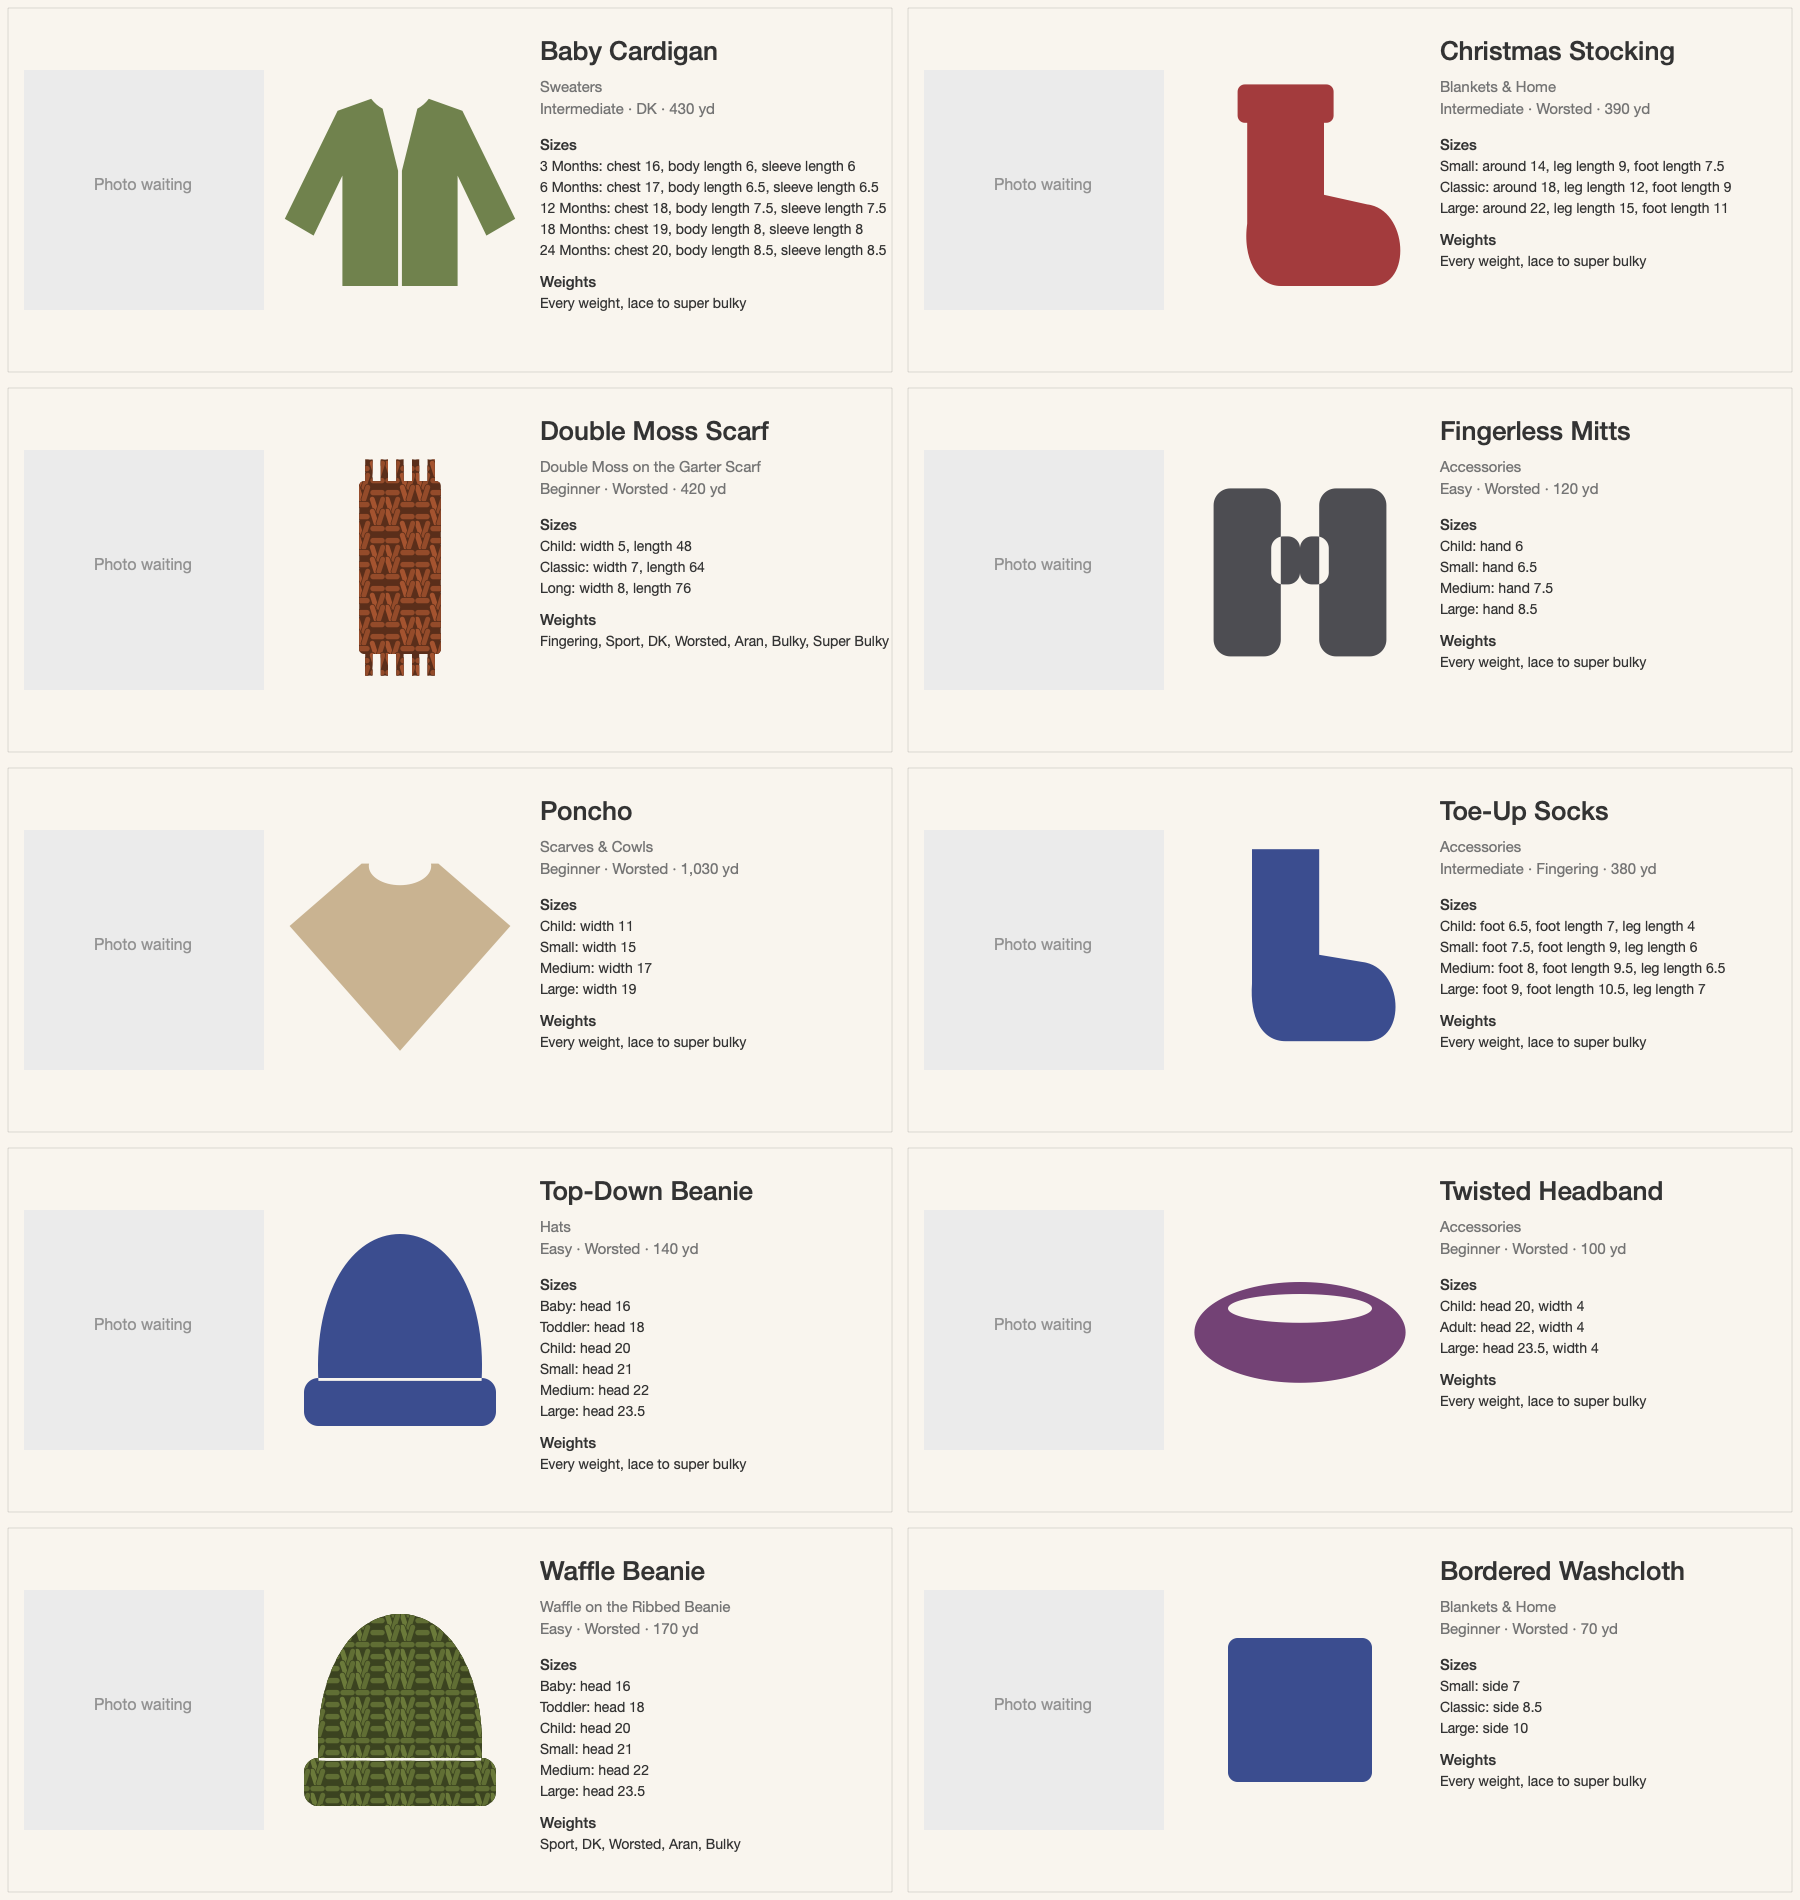
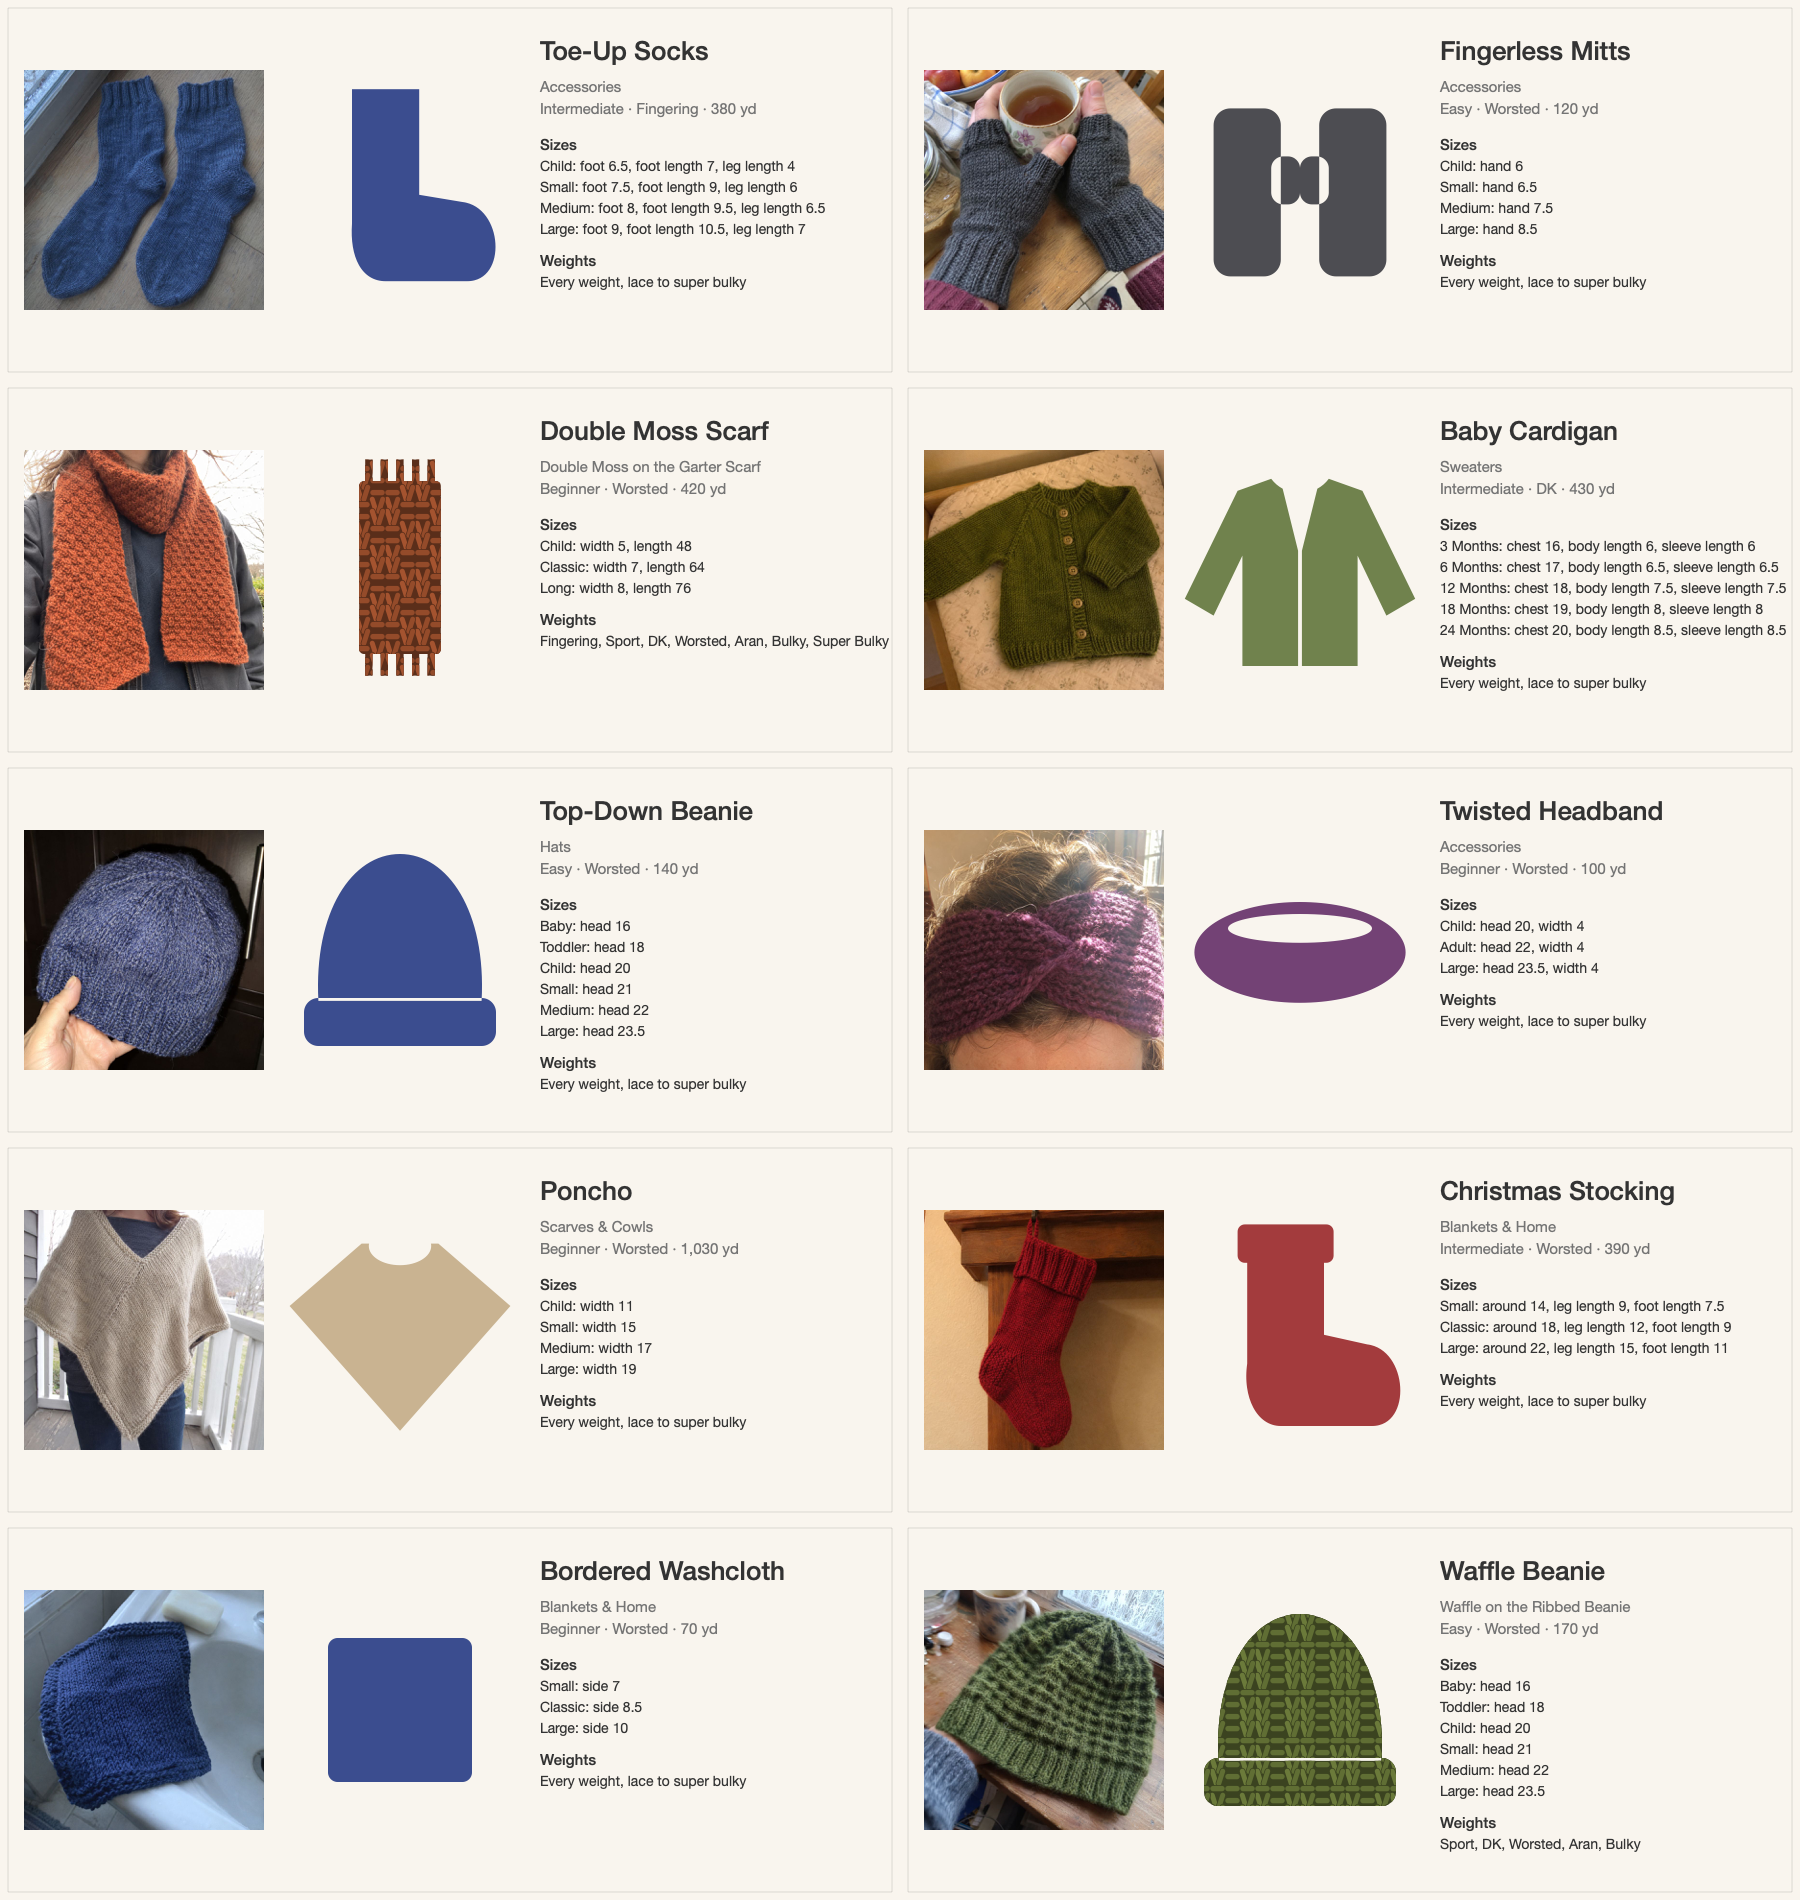
feat(photos): sample photos for batch 1

diff --git a/RavelTests/PatternTests.swift b/RavelTests/PatternTests.swift
@@ -19,7 +19,7 @@ final class PatternTests: XCTestCase {
 
     /// Every built-in design page has its knitted sample photo in the app.
     /// Designs whose photo is not made yet. Each is drawn until its photo is on the site. Empty at a release.
-    static let awaitingPhoto: Set<String> = ["toeUpSocks", "fingerlessMitts", "babyCardigan", "double-moss-scarf", "topDownBeanie", "twistedHeadband", "poncho", "christmasStocking", "washcloth", "waffle-beanie", "snowflake-beanie", "knotHat", "asymmetricShawl", "broken-rib-cowl", "feather-and-fan-scarf", "double-moss-blanket", "basketweave-washcloth", "bandanaCowl", "armWarmers", "honeycomb-cowl", "watchCap", "chevron-lace-blanket", "hoodedScarf", "striped-scarf", "coasters", "rope-cable-scarf", "babyMittens", "catHat", "seeded-rib-beanie", "eyelet-lace-wrap", "teaCozy", "bootCuffs", "striped-beanie", "kidsCardigan", "linen-stitch-scarf", "babySocks", "waffle-blanket", "mugCozy", "houndstooth-beanie", "capelet", "double-moss-cowl", "placemat", "miniStocking", "rope-cable-mitts", "raglanTee", "honeycomb-beanie", "waffle-washcloth", "feather-and-fan-wrap", "pouch", "color-block-beanie", "twisted-rib-scarf", "bottleCover", "bandanaKerchief", "snowflake-cowl", "broken-rib-beanie", "rope-cable-blanket", "turtleneck", "linen-stitch-washcloth", "star-beanie", "waffle-cowl", "shrug", "gloves", "yokeSweater", "tankTop", "croppedCardigan", "babyPullover", "bucketHat", "toteBag", "babyCocoon", "tubeSocks", "knitBasket", "kidsVest", "tableRunner", "ruana", "scrunchie", "floorPouf", "babyBib", "bathMat", "laptopSleeve", "bauble", "buttonNeckWarmer", "draftStopper", "cowlHood", "bunting", "pixieHat", "polka-dot-beanie", "zigzag-beanie", "wave-beanie", "mushroom-beanie", "strawberry-beanie", "striped-cowl", "heart-cowl", "houndstooth-cowl", "striped-blanket", "color-block-scarf", "striped-mitts", "nordic-band-beanie", "fair-isle-band-cowl", "flower-beanie", "reindeer-beanie"]
+    static let awaitingPhoto: Set<String> = ["snowflake-beanie", "knotHat", "asymmetricShawl", "broken-rib-cowl", "feather-and-fan-scarf", "double-moss-blanket", "basketweave-washcloth", "bandanaCowl", "armWarmers", "honeycomb-cowl", "watchCap", "chevron-lace-blanket", "hoodedScarf", "striped-scarf", "coasters", "rope-cable-scarf", "babyMittens", "catHat", "seeded-rib-beanie", "eyelet-lace-wrap", "teaCozy", "bootCuffs", "striped-beanie", "kidsCardigan", "linen-stitch-scarf", "babySocks", "waffle-blanket", "mugCozy", "houndstooth-beanie", "capelet", "double-moss-cowl", "placemat", "miniStocking", "rope-cable-mitts", "raglanTee", "honeycomb-beanie", "waffle-washcloth", "feather-and-fan-wrap", "pouch", "color-block-beanie", "twisted-rib-scarf", "bottleCover", "bandanaKerchief", "snowflake-cowl", "broken-rib-beanie", "rope-cable-blanket", "turtleneck", "linen-stitch-washcloth", "star-beanie", "waffle-cowl", "shrug", "gloves", "yokeSweater", "tankTop", "croppedCardigan", "babyPullover", "bucketHat", "toteBag", "babyCocoon", "tubeSocks", "knitBasket", "kidsVest", "tableRunner", "ruana", "scrunchie", "floorPouf", "babyBib", "bathMat", "laptopSleeve", "bauble", "buttonNeckWarmer", "draftStopper", "cowlHood", "bunting", "pixieHat", "polka-dot-beanie", "zigzag-beanie", "wave-beanie", "mushroom-beanie", "strawberry-beanie", "striped-cowl", "heart-cowl", "houndstooth-cowl", "striped-blanket", "color-block-scarf", "striped-mitts", "nordic-band-beanie", "fair-isle-band-cowl", "flower-beanie", "reindeer-beanie"]
 
     private static let root = URL(fileURLWithPath: #filePath).deletingLastPathComponent().deletingLastPathComponent()
 

diff --git a/project-docs/catalog/roadmap.md b/project-docs/catalog/roadmap.md
@@ -41,9 +41,14 @@ cannot prove, so the four rows planned for it became seeded rib (2026-11-20).
 
 ## Photos
 
-Prompts are queued in `project-docs/sample-photos/subjects.json` and `shots.json`. No image is generated
-until Jack says yes to the image tool. New photos are served from the site (`docs/photos/<id>.jpg`) and
-cached on the phone, so the app does not carry them.
+Prompts are queued in `project-docs/sample-photos/subjects.json` and `shots.json`. Jack said yes
+(2026-11-21) to Codex's image tool under the ChatGPT sign-in, which costs nothing; it stops at any credit
+prompt. Each image is read next to the design's drawing and rejected for a wrong stitch, color count, motif,
+shape or edging, or for an AI tell; three failed tries means no photo. New photos are served from the site
+(`docs/photos/<id>.jpg`, committed on this branch only) and cached on the phone, so the app does not carry
+them. A design whose photo is not accepted stays in `awaitingPhoto` in `PatternTests` and shows its drawing.
+
+Accepted on my read, waiting for the peer's: batch 1 (2026-11-21).
 
 ## The knitter's read (2026-11-21)
 
